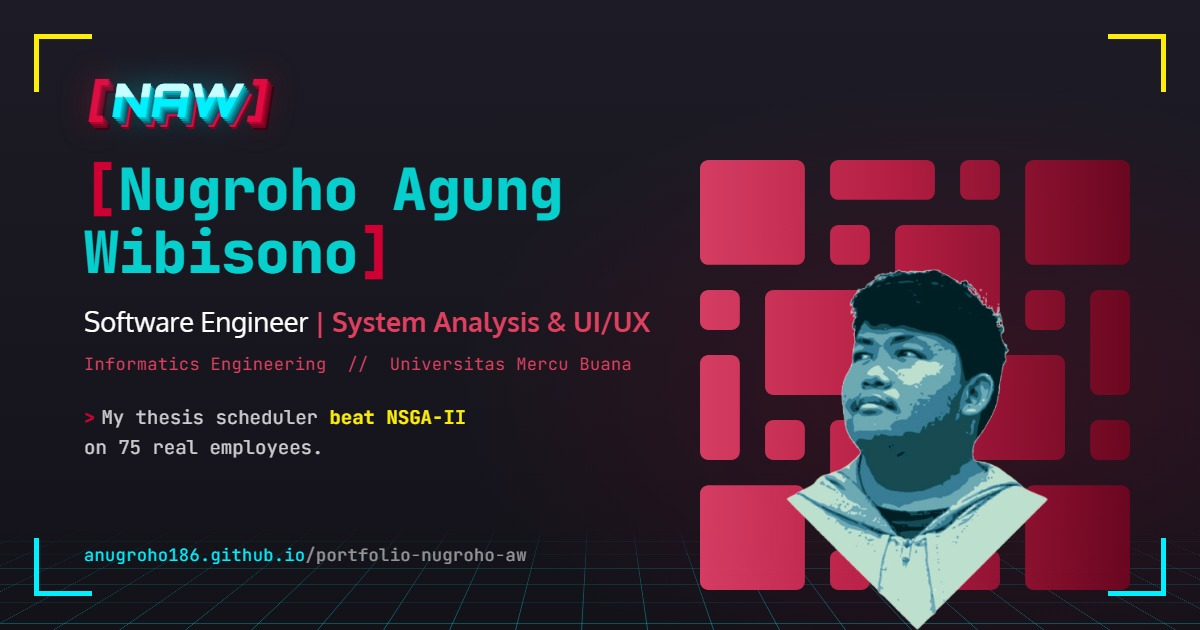
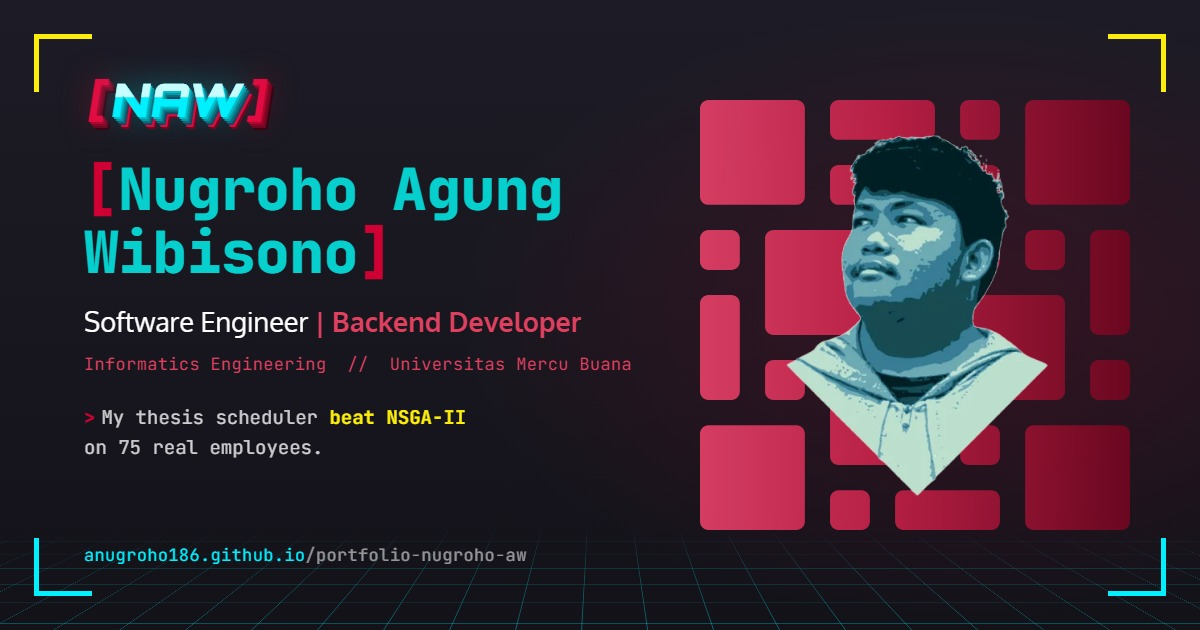
Ganti peran jadi Backend Developer dan tengahkan foto di gambar pratinjau

Changed region(s): [[0.555, 0.1508, 0.9558, 1.0], [0.2775, 0.4825, 0.555, 0.5429], [0.8942, 0.6032, 0.9558, 0.6333]]

diff --git a/index.html b/index.html
@@ -48,7 +48,7 @@
     </script>
     <link rel="icon" href="favicon.ico?v=2" sizes="any">
     <link rel="apple-touch-icon" href="apple-touch-icon.png?v=2">
-    <meta name="description" content="Portfolio of Nugroho Agung Wibisono, Informatics Engineering student at Universitas Mercu Buana - software development, system analysis, UML modeling, and UI/UX design.">
+    <meta name="description" content="Portfolio of Nugroho Agung Wibisono, Informatics Engineering student at Universitas Mercu Buana - backend development, system analysis, UML modeling, and UI/UX design.">
     <meta name="author" content="Nugroho Agung Wibisono">
     <meta name="theme-color" content="#23232b">
     <script type="application/ld+json">
@@ -56,9 +56,9 @@
         "@context": "https://schema.org",
         "@type": "Person",
         "name": "Nugroho Agung Wibisono",
-        "jobTitle": "Software Engineer",
+        "jobTitle": ["Software Engineer", "Backend Developer"],
         "url": "https://anugroho186.github.io/portfolio-nugroho-aw/",
-        "image": "https://anugroho186.github.io/portfolio-nugroho-aw/src/img/og-image.jpg",
+        "image": "https://anugroho186.github.io/portfolio-nugroho-aw/src/img/og-image.jpg?v=2",
         "affiliation": { "@type": "CollegeOrUniversity", "name": "Universitas Mercu Buana" },
         "sameAs": [
             "https://github.com/ANugroho186",
@@ -71,17 +71,17 @@
     </script>
     <meta property="og:type" content="website">
     <meta property="og:url" content="https://anugroho186.github.io/portfolio-nugroho-aw/">
-    <meta property="og:title" content="Nugroho Agung Wibisono - Software Engineer &amp; UI/UX">
-    <meta property="og:description" content="Portfolio of Nugroho Agung Wibisono, Informatics Engineering student at Universitas Mercu Buana - software development, system analysis, UML modeling, and UI/UX design.">
-    <meta property="og:image" content="https://anugroho186.github.io/portfolio-nugroho-aw/src/img/og-image.jpg">
+    <meta property="og:title" content="Nugroho Agung Wibisono - Software Engineer | Backend Developer">
+    <meta property="og:description" content="Portfolio of Nugroho Agung Wibisono, Informatics Engineering student at Universitas Mercu Buana - backend development, system analysis, UML modeling, and UI/UX design.">
+    <meta property="og:image" content="https://anugroho186.github.io/portfolio-nugroho-aw/src/img/og-image.jpg?v=2">
     <meta property="og:image:type" content="image/jpeg">
     <meta property="og:image:width" content="1200">
     <meta property="og:image:height" content="630">
-    <meta property="og:image:alt" content="Nugroho Agung Wibisono, Software Engineer | System Analysis &amp; UI/UX, Universitas Mercu Buana">
+    <meta property="og:image:alt" content="Nugroho Agung Wibisono, Software Engineer | Backend Developer, Universitas Mercu Buana">
     <meta name="twitter:card" content="summary_large_image">
-    <meta name="twitter:image" content="https://anugroho186.github.io/portfolio-nugroho-aw/src/img/og-image.jpg">
-    <meta name="twitter:image:alt" content="Nugroho Agung Wibisono, Software Engineer | System Analysis &amp; UI/UX, Universitas Mercu Buana">
-    <title>Nugroho Agung Wibisono - Software Engineer &amp; UI/UX</title>
+    <meta name="twitter:image" content="https://anugroho186.github.io/portfolio-nugroho-aw/src/img/og-image.jpg?v=2">
+    <meta name="twitter:image:alt" content="Nugroho Agung Wibisono, Software Engineer | Backend Developer, Universitas Mercu Buana">
+    <title>Nugroho Agung Wibisono - Software Engineer | Backend Developer</title>
     <style>
         body {
             font-family: 'Oxygen', sans-serif;
@@ -171,7 +171,7 @@
                 <div class="w-full self-center px-4 lg:w-1/2">
                     <h1 class="block font-bold text-youngred text-5xl mt-1 mb-3 lg:text-5xl cp-glitch" style="font-family: JetBrains Mono, serif;">[<span class="text-youngcyan">Nugroho Agung Wibisono</span>]</h1>
                     <h2 class="font-medium text-white text-lg mb-5 lg:text-2xl">Software Engineer
-                        <span class="text-youngred font-semibold">| System Analysis &amp; UI/UX</span></h2>
+                        <span class="text-youngred font-semibold">| Backend Developer</span></h2>
                     <p class="hero-bukti"><span class="hero-tanda cp-flicker" aria-hidden="true">&gt;</span> I turn requirements into working systems &mdash; my thesis scheduler <b>beat NSGA-II</b> on 75 real employees.</p>
                     <!-- Dua tombol: utama ke Portfolio, kedua mengunduh CV (tautan sama dengan di About). Gaya tombol kedua di blok 34 src/cyberpunk.css. -->
                     <div class="hero-aksi">
@@ -650,7 +650,7 @@
             <div class="ft-grid px-4">
                 <div class="ft-identitas">
                     <a href="#home" class="cp-logo ft-logo" aria-label="NAW - Back to top"><span class="cp-logo__badan" data-text="[NAW]"><span class="cp-logo__kurung">[</span><span class="cp-logo__inti" data-text="NAW">NAW</span><span class="cp-logo__kurung">]</span></span></a>
-                    <p class="ft-peran">Software Engineer <span>| System Analysis &amp; UI/UX</span></p>
+                    <p class="ft-peran">Software Engineer <span>| Backend Developer</span></p>
                     <p class="ft-status"><i aria-hidden="true"></i>Open to software engineering opportunities</p>
                     <a href="https://drive.usercontent.google.com/uc?id=1YsT067YUB14m31hoKsWzcWFrAfmzy9t3&export=download" class="ft-cv">
                         Download CV

diff --git a/src/cyberpunk.css b/src/cyberpunk.css
@@ -2130,6 +2130,11 @@ html.cp-boot-keluar .cp-boot::after {
    JANGAN pasang hover:scale-* pada .cp-btn: animasi getar cp-btn-jitter menimpa
    transform selama +-0,84 detik, lalu skala baru berlaku dan tombol tiba-tiba
    membesar (terukur 189x48 -> 208x53px saat hover lama). */
+
+/* Bagian kedua baris peran ("| Backend Developer") pindah baris utuh. Tanpa
+   nowrap, di 320-390px "Developer" tertinggal sendirian di baris kedua. */
+#home h2 > span { white-space: nowrap; }
+
 .hero-bukti {
   max-width: 34rem;
   margin: 0 0 2.25rem;
@@ -2534,8 +2539,8 @@ html.cp-reveal-on .sk-terminal.cp-in .sk-baris {
   color: #ececed;
 }
 
-/* Bagian kedua peran pindah baris utuh; tanpa nowrap, di 768px "UI/UX"
-   tertinggal sendirian di baris kedua. */
+/* Bagian kedua peran ("| Backend Developer") pindah baris utuh, tidak terbelah;
+   dulu di 768px "UI/UX" tertinggal sendirian di baris kedua. */
 .ft-peran span { color: #06cfce; white-space: nowrap; }
 
 .ft-status {
